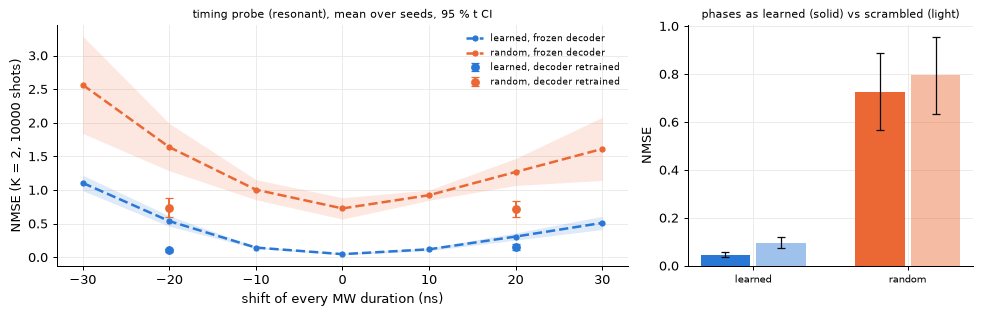
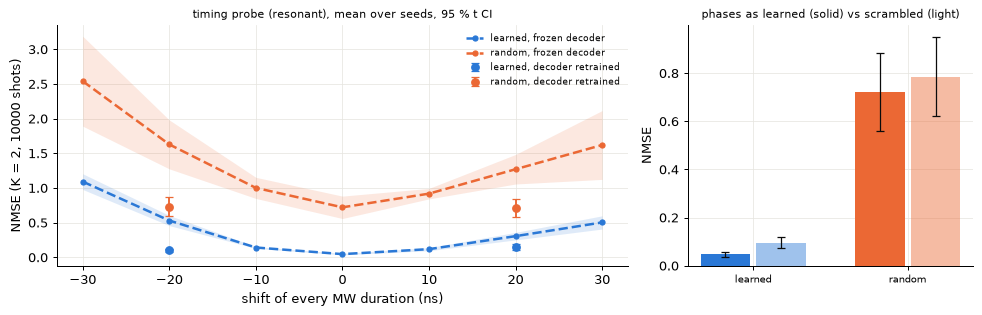
Milestone 4 report, Task 4: rerun at 32 quadrature nodes (64-node check), 8-node note, equal-area probe, detuned residual at 2x offset; corrected interpretation
Claude-Session: https://claude.ai/code/session_011moV3EPNNknRWZQ686AChh

diff --git a/docs/results/m4-autoencoder.md b/docs/results/m4-autoencoder.md
@@ -4,42 +4,51 @@
 
 ## Result
 
-- Headline (K = 2 readouts, 10000 shots, mean over 5 seeds, 95 % Student-t CI): the learned encoder reconstructs with NMSE 0.0466 [0.0364, 0.0567]; the fixed random encoder (milestone-3 reservoir parametrisation, same decoder recipe) 0.726 [0.567, 0.886]. Paired difference random - learned 0.68 [0.514, 0.845].
+- Headline (K = 2 readouts, 10000 shots, mean over 5 seeds, 95 % Student-t CI): the learned encoder reconstructs with NMSE 0.0474 [0.0372, 0.0576]; the fixed random encoder (milestone-3 reservoir parametrisation, same decoder recipe) 0.722 [0.561, 0.884]. Paired difference random - learned 0.675 [0.508, 0.842].
 - References at K = 2 (noiseless numbers): PCA 0.305 [0.3, 0.309], ideal K-number autoencoder 0.00443 [0.00374, 0.00512].
-- **Quantum test**: with every MW frequency shifted by 400 MHz (no line within 254 MHz of any MW frequency), learned NMSE 0.998 [0.996, 0.999], random 1 [0.999, 1]. Gaps (detuned - resonant): learned 0.951 [0.94, 0.962] (significant), random 0.274 [0.114, 0.433] (significant).
+- **Quantum test**: with every MW frequency shifted by 400 MHz (no line within 254 MHz of any MW frequency), learned NMSE 0.998 [0.996, 0.999], random 1 [0.999, 1]. Gaps (detuned - resonant): learned 0.95 [0.939, 0.962] (significant), random 0.278 [0.116, 0.439] (significant).
+- Detuned residual: the frozen detuned learned encoders with every MW frequency 2x as far off (800 MHz), fresh decoder: NMSE 1000 shots 1 [0.998, 1] -> 1 [0.999, 1]; 10000 shots 0.998 [0.996, 0.999] -> 1 [0.999, 1]; 100000 shots 0.992 [0.986, 0.998] -> 1 [0.999, 1].
+- Training numerics note: the same frozen encoders banked and decoded at the phase-1 node count (8) give learned 0.0458 [0.0358, 0.0559], random 0.726 [0.566, 0.886] (resonant; detuned 0.998 [0.996, 1] / 1 [0.999, 1]).
 - Timing: learned strategy uses microsecond-scale (Rabi-scale) timing: **yes** (details below).
 
 ## Interpretation
 
-- **The diamond is a usable nonlinear bottleneck once the encoding is learned.** With two gated readouts at 10^4
-  shots the learned system reconstructs to NMSE 0.047, 6.5x better than linear PCA with two *noiseless* numbers
-  (0.305), and it closes most of the gap to a noiseless nonlinear two-number autoencoder (0.0044). The decoder sees
-  only two photon counts, so the encoder must place the patch manifold onto two spin-population readouts in a way
-  that survives Poisson noise. One readout (K = 1) already beats two PCA components and approaches the ideal
-  one-number code (0.33 vs 0.20). The same parametrisation fixed at random (the milestone-3 reservoir) reaches only
-  0.73 [0.57, 0.89]: its pulses move the readouts by ~1 % where the learned ones use the ~7 % spin contrast.
-- **The learned strategy is Rabi-scale timing, not brightness.** Detuned, every arm falls to the mean patch (NMSE
-  0.998): there is no MW-independent channel. On resonance the code lives in the exact pulse areas and phases:
-  shifting every duration by 20 ns (a fraction of the ~120-250 ns Rabi period) raises the NMSE 9-fold with the
-  decoder frozen and still 2.8-fold with a decoder retrained on the shifted pulses, and scrambling the segment phases
-  doubles it. Phases matter because several segments drive the same transitions within T2*: the populations read
-  out depend on the coherent sum of rotations, not on each pulse alone. The learned pulse areas spread from 0 to
-  about pi with a peak near 0 (histogram): the input switches segments between weak and up-to-pi rotations and sets
-  their phases. The random encoder is only mildly timing-sensitive (+104 % frozen, nothing once
-  retrained).
-- **Caveat: quadrature.** Trained and evaluated with 8 T2* quadrature nodes. The frozen seed-0 system at 32 nodes
-  changes its counts by up to 1.3 % (15 % of the input-dependent signal) and its NMSE from 0.035 to 0.042 with the
-  8-node decoder: the code is robust to the finer broadening model, but part of its precision relies on details of
-  the node set. A run at more nodes (or a decoder retrained at 32 nodes) is the next check before hardware.
-- The QuTiP reference reproduces the learned sequences' gated counts to 1e-5 (1.2e-4 of the signal): the
-  sim-to-reference gap is negligible against shot noise.
+- **The learned encoder plus the NV readouts form a usable two-number channel.** With two gated readouts at 10^4
+  shots the learned system reconstructs to NMSE 0.047, 6.4x better than linear PCA with two *noiseless* numbers
+  (0.305), and well short of a noiseless nonlinear two-number autoencoder (0.0044). The nonlinearity that beats PCA
+  is in the encoder MLP (and the decoder MLP); the diamond acts as a noisy channel that carries K numbers, the
+  ms = 0 populations read by the gates. One readout (K = 1, 0.332) beats one PCA component (0.653) but not two
+  (0.305), and sits above the ideal one-number code (0.197). The same parametrisation fixed at random (the
+  milestone-3 reservoir) reaches only 0.72 [0.56, 0.88]: its pulses move the readouts by ~1 % where the learned
+  ones use the ~7 % spin contrast.
+- **Converged numerics.** Every number above is at 32 T2* quadrature nodes (banks, decoders, evaluation, probes,
+  QuTiP check); training used 8. At 64 nodes the seed-0 counts move by 0.5 % (6 % of the input-dependent signal)
+  and the NMSE by < 0.001 (0.0362 -> 0.0361), so 32 nodes is converged for this task. Banked and decoded at 8
+  nodes instead, the NMSE is 0.046 [0.036, 0.056], within the seed spread of the 32-node 0.047: the earlier
+  "0.035 -> 0.042" came from feeding 32-node counts to a decoder trained on 8-node counts (a decoder mismatch),
+  not from an unconverged result.
+- **The learned strategy relies on Rabi rotation angles and coherent phases.** On resonance the code lives in the
+  exact pulse areas and phases: shifting every duration by 20 ns (a fraction of the ~120-250 ns Rabi period) raises
+  the NMSE 9-fold with the decoder frozen and still 2.7-fold with a decoder retrained on the shifted pulses, and
+  scrambling the segment phases doubles it. Changing every pulse's area by the same amount through its amplitude
+  instead (durations kept) costs as much as the duration shift (+10.0 vs +8.1, frozen): what matters is the
+  rotation angle, i.e. pulse area on the Rabi scale, not timing as such. Phases matter because several segments
+  drive the same transitions within T2*: the populations read out depend on the coherent sum of rotations. The
+  random encoder is only mildly sensitive (+105 % frozen, nothing once retrained).
+- **Quantum test.** Detuned by 400 MHz every arm falls to the mean patch (learned 0.998, random 1.000). The learned
+  detuned arm keeps a small but significant residual (skill 0.0022 [0.0008, 0.0037] at 10^4 shots, NMSE 0.992 at
+  10^5): off-resonant spin excitation, of order (Omega / Delta)^2 ~ 1e-3 at the 254 MHz margin. It is still spin
+  physics, not a MW-independent channel: with the frozen detuned encoders at twice the offset (800 MHz) the
+  residual vanishes (NMSE 1.000 [0.999, 1] at 10^5 shots).
+- The QuTiP reference reproduces the learned sequences' gated counts to 1e-5 (1.2e-4 of the signal) at the
+  evaluation's 32 nodes; the noisy NMSE is identical on reference and surrogate counts.
 
 ## Task, bottleneck and training
 
 - Data: 4x4 patches tanh(3.0 (x cos theta + y sin theta - o)), theta uniform, |o| <= 0.6; 8192 train / 512 val / 2048 test patches per seed. NMSE = MSE / mean per-pixel variance (1 = mean patch).
 - Sequence: init laser 1500 ns, dark 1000 ns, then K x [4 MW segments in 100 ns slots, a 1000 ns readout laser of which the first 300 ns are counted (one number per readout)]. Each segment: amplitude in [0, 1], phase, frequency within +-4 MHz of a device line (segment j of block k on line (4k + j) mod 8 of the known bias field [0.0012, 0.0007, 0.0025] T), duration 0-100 ns on the 10 ns grid (straight-through rounding; the surrogate's run-length path gives exact duration gradients).
-- Device per seed: nuisance draw (T2*, Rabi full scale, beta, collection, background, strain) from the milestone-3 prior; T2* quadrature 8 quantile nodes.
-- Phase 1: Adam, 1000 steps, batch 128, Gaussian shot noise (Poisson variance), shots log-uniform [1000.0, 100000.0]. Phase 2: fresh decoder, 3000 steps on a bank with Poisson noise. Wall time: phase 1 82 min, phase 2 15.3 min, timing probes 5.7 min.
+- Device per seed: nuisance draw (T2*, Rabi full scale, beta, collection, background, strain) from the milestone-3 prior. T2* quadrature (quantile rule): 8 nodes for phase-1 training, 32 nodes for every bank, decoder, evaluation, timing probe and the QuTiP check (every number in this report unless marked otherwise).
+- Phase 1: Adam, 1000 steps, batch 128, Gaussian shot noise (Poisson variance), shots log-uniform [1000.0, 100000.0]. Phase 2: fresh decoder, 3000 steps on a bank with Poisson noise. Wall time: phase 1 82 min, phase 2 28.0 min, timing probes 9.3 min.
 
 ## Error vs bottleneck and noise
 
@@ -47,43 +56,45 @@ NMSE at 10000 shots, resonant, mean [95 % t CI] over seeds:
 
 | K | learned | random | PCA (noiseless) | ideal K-number AE (noiseless) |
 | --- | --- | --- | --- | --- |
-| 1 | 0.331 [0.306, 0.356] | 0.801 [0.65, 0.952] | 0.653 [0.644, 0.663] | 0.197 [0.182, 0.211] |
-| 2 | 0.0466 [0.0364, 0.0567] | 0.726 [0.567, 0.886] | 0.305 [0.3, 0.309] | 0.00443 [0.00374, 0.00512] |
-| 4 | 0.0103 [0.00716, 0.0134] | 0.626 [0.504, 0.749] | 0.0476 [0.0471, 0.0481] | 0.000288 [0.000251, 0.000324] |
+| 1 | 0.332 [0.307, 0.357] | 0.804 [0.653, 0.954] | 0.653 [0.644, 0.663] | 0.197 [0.182, 0.211] |
+| 2 | 0.0474 [0.0372, 0.0576] | 0.722 [0.561, 0.884] | 0.305 [0.3, 0.309] | 0.00443 [0.00374, 0.00512] |
+| 4 | 0.0103 [0.00718, 0.0135] | 0.619 [0.5, 0.737] | 0.0476 [0.0471, 0.0481] | 0.000288 [0.000251, 0.000324] |
 
 NMSE vs shots at K = 2:
 
 | shots | learned, resonant | learned, detuned | random, resonant | random, detuned |
 | --- | --- | --- | --- | --- |
-| 1000 | 0.162 [0.125, 0.199] | 1 [0.998, 1] | 0.86 [0.76, 0.961] | 1 [1, 1] |
-| 10000 | 0.0466 [0.0364, 0.0567] | 0.998 [0.996, 0.999] | 0.726 [0.567, 0.886] | 1 [0.999, 1] |
-| 100000 | 0.0316 [0.0259, 0.0372] | 0.992 [0.985, 0.998] | 0.699 [0.531, 0.867] | 1 [0.999, 1] |
+| 1000 | 0.166 [0.127, 0.204] | 1 [0.998, 1] | 0.861 [0.76, 0.963] | 1 [1, 1] |
+| 10000 | 0.0474 [0.0372, 0.0576] | 0.998 [0.996, 0.999] | 0.722 [0.561, 0.884] | 1 [0.999, 1] |
+| 100000 | 0.032 [0.0265, 0.0374] | 0.992 [0.986, 0.998] | 0.693 [0.523, 0.863] | 1 [0.999, 1] |
 
 ## Quantum test
 
 | metric | resonant | detuned | gap (better on resonance > 0) | per seed (resonant / detuned) |
 | --- | --- | --- | --- | --- |
-| learned_nmse | 0.04655 [0.03642, 0.05668] | 0.9977 [0.9962, 0.9992] | 0.9511 [0.9398, 0.9624] | 0.03447, 0.05309, 0.04632, 0.04395, 0.05495; 0.9994, 0.9968, 0.9985, 0.9967, 0.997 |
-| learned_skill | 0.9534 [0.9433, 0.9636] | 0.002314 [0.0008272, 0.0038] | 0.9511 [0.9398, 0.9624] | 0.9655, 0.9469, 0.9537, 0.9561, 0.945; 0.0006301, 0.003178, 0.001468, 0.003304, 0.002987 |
-| random_nmse | 0.7264 [0.567, 0.8858] | 1 [0.9992, 1.001] | 0.2736 [0.1144, 0.4328] | 0.9013, 0.8158, 0.6745, 0.6525, 0.5879; 1, 1, 1, 0.9989, 1 |
-| random_skill | 0.2736 [0.1142, 0.433] | 9.882e-06 [-0.0007681, 0.0007878] | 0.2736 [0.1144, 0.4328] | 0.09873, 0.1842, 0.3255, 0.3475, 0.4121; -0.0003242, -1.407e-05, -0.0003191, 0.0011, -0.0003928 |
+| learned_nmse | 0.04744 [0.03724, 0.05764] | 0.9978 [0.9963, 0.9992] | 0.9503 [0.9391, 0.9616] | 0.03617, 0.05469, 0.04621, 0.04393, 0.05619; 0.9994, 0.997, 0.9986, 0.9967, 0.9971 |
+| learned_skill | 0.9526 [0.9424, 0.9628] | 0.00223 [0.0008043, 0.003656] | 0.9503 [0.9391, 0.9616] | 0.9638, 0.9453, 0.9538, 0.9561, 0.9438; 0.0006223, 0.002963, 0.001419, 0.003265, 0.00288 |
+| learned_nmse_train_quad | 0.04584 [0.0358, 0.05588] | 0.9979 [0.996, 0.9998] | 0.952 [0.9403, 0.9638] | 0.03298, 0.05069, 0.04564, 0.04555, 0.05434; 0.9998, 0.996, 0.9987, 0.9982, 0.9967 |
+| random_nmse | 0.7222 [0.5607, 0.8837] | 1 [0.9992, 1.001] | 0.2778 [0.1164, 0.4391] | 0.9007, 0.8137, 0.6629, 0.6467, 0.5872; 1, 1, 1, 0.9989, 1 |
+| random_skill | 0.2778 [0.1163, 0.4393] | 9.954e-06 [-0.0007683, 0.0007882] | 0.2778 [0.1164, 0.4391] | 0.09933, 0.1863, 0.3371, 0.3533, 0.4128; -0.0003242, -1.192e-05, -0.0003206, 0.0011, -0.0003932 |
+| random_nmse_train_quad | 0.7261 [0.5662, 0.886] | 0.9998 [0.9987, 1.001] | 0.2737 [0.114, 0.4334] | 0.9042, 0.8113, 0.6759, 0.6525, 0.5867; 1, 1, 1, 0.9982, 1 |
 
 ## Learned strategies and timing
 
-Pulse areas are the resonant rotation angle 2 f_R a d (f_R the seed's full-scale Rabi frequency on a [100] MW field; units of pi). Probes (resonant, K = headline, every seed): every MW duration shifted with the decoder frozen (the harness's `timing_sensitivity`) and with a decoder retrained on the shifted encoding; every segment's phase replaced by an independent random phase (frozen decoder). Relative NMSE increase, mean [95 % t CI] over seeds:
+Pulse areas are the resonant rotation angle 2 f_R a d (f_R the seed's full-scale Rabi frequency on a [100] MW field; units of pi). Probes (resonant, K = headline, every seed): every MW duration shifted with the decoder frozen (the harness's `timing_sensitivity`) and with a decoder retrained on the shifted encoding; every segment's amplitude scaled so that its area changes as under the shift, durations kept (equal-area control, frozen decoder); every segment's phase replaced by an independent random phase (frozen decoder). Relative NMSE increase, mean [95 % t CI] over seeds:
 
-| encoder | median area (pi) | fraction of segments at 0.25-4 pi | fraction off | median duration (ns) | +-20 ns, frozen | +-20 ns, retrained | phases scrambled |
-| --- | --- | --- | --- | --- | --- | --- | --- |
-| learned | 0.435 [0.427, 0.443] | 0.66 [0.62, 0.70] | 0.01 [-0.00, 0.02] | 58 [52, 64] | +8.40 [+5.46, +11.33] | +1.77 [+1.46, +2.07] | +1.05 [+0.92, +1.17] |
-| random | 0.421 [0.226, 0.615] | 0.72 [0.54, 0.89] | 0.00 [-0.00, 0.00] | 54 [43, 65] | +1.04 [+0.63, +1.45] | +0.00 [-0.06, +0.07] | +0.10 [+0.02, +0.18] |
+| encoder | median area (pi) | fraction of segments at 0.25-4 pi | fraction off | median duration (ns) | +-20 ns, frozen | +-20 ns, retrained | equal area by amplitude, frozen | phases scrambled |
+| --- | --- | --- | --- | --- | --- | --- | --- | --- |
+| learned | 0.435 [0.427, 0.443] | 0.66 [0.62, 0.70] | 0.01 [-0.00, 0.02] | 58 [52, 64] | +8.11 [+5.48, +10.73] | +1.70 [+1.41, +1.99] | +10.02 [+7.17, +12.87] | +0.99 [+0.87, +1.12] |
+| random | 0.421 [0.226, 0.615] | 0.72 [0.54, 0.89] | 0.00 [-0.00, 0.00] | 54 [43, 65] | +1.05 [+0.58, +1.53] | +0.01 [-0.06, +0.07] | +1.59 [+0.78, +2.40] | +0.09 [+0.02, +0.17] |
 
-- Learned encoder relies on its pulse timing (frozen NMSE up > 10 % at +-20 ns, CI): yes; the information needs the exact timing (retrained decoder still worse > 10 %): yes; it uses coherent phase relations between segments (scrambling costs > 10 %): yes; its pulse areas are Rabi-scale (median 0.25-4 pi): yes. `strategy_learns_timing` = relies on pulse timing and Rabi-scale areas = **yes**.
+- Learned encoder relies on its pulse timing (frozen NMSE up > 10 % at +-20 ns, CI): yes; the information needs the exact timing (retrained decoder still worse > 10 %): yes; it uses coherent phase relations between segments (scrambling costs > 10 %): yes; its pulse areas are Rabi-scale (median 0.25-4 pi): yes. The same area change made with the amplitude (durations kept) costs at least half as much as the duration shift: yes (if yes, the probe measures reliance on the pulse areas, i.e. the Rabi rotation angles, rather than on timing as such). `strategy_learns_timing` = relies on pulse timing and Rabi-scale areas = **yes**.
 - The same probes on the random encoder show what an unlearned encoding of the same family does.
 
 ## Checks
 
-- QuTiP reference (seed 0, resonant, K = 2, 16 learned test sequences run as full PulseSequences, 8 quadrature nodes): gated counts within 9.7e-06 (relative) of the surrogate, 0.00012 of the input-dependent signal; frozen decoder NMSE at 10000 shots 0.0315 on reference counts vs 0.0315 on surrogate counts (64 noise draws per patch, same draws); noiseless reconstructions differ by 3.8e-05 of the pixel sd (12 s).
-- Quadrature: the frozen seed-0 system at 32 nodes: counts within 0.013 (relative), 0.15 of the signal; NMSE 0.0345 -> 0.0415 with the decoder trained at 8 nodes.
+- QuTiP reference (seed 0, resonant, K = 2, 16 learned test sequences run as full PulseSequences, 32 quadrature nodes): gated counts within 9.3e-06 (relative) of the surrogate, 0.00012 of the input-dependent signal; frozen decoder NMSE at 10000 shots 0.0328 on reference counts vs 0.0328 on surrogate counts (64 noise draws per patch, same draws); noiseless reconstructions differ by 4.1e-05 of the pixel sd (35 s).
+- Quadrature: the frozen seed-0 system at 64 nodes: counts within 0.0054 (relative), 0.06 of the signal; NMSE 0.0362 -> 0.0361 with the decoder trained at 32 nodes.
 
 ## Assumptions and limits
 
@@ -104,12 +115,12 @@ Pulse areas are the resonant rotation angle 2 f_R a d (f_R the seed's full-scale
 
 ## Provenance
 
-- run id: `20261126-080522-m4-autoencoder-129b`
-- git: `899e5bf619ac383e4dd2d5b39c19ae127033628e`
+- run id: `20261126-130613-m4-autoencoder-62a5`
+- git: `4b1b1431c4075de907c32e94a471eb8d77409ad1`
 - seed: 20261128
 - device: cuda NVIDIA GeForce RTX 5070 Ti
 - python 3.12.14, glowbox 0.1.0, torch 2.11.0+cu128, qutip 5.3.1, numpy 2.5.5, scipy 1.18.1, pyarrow 26.0.1
-- started 2026-11-26T08:05:22+00:00, finished 2026-11-26T09:48:30+00:00
+- started 2026-11-26T13:06:13+00:00, finished 2026-11-26T15:04:53+00:00
 
 ## Config
 
@@ -135,6 +146,7 @@ device:
   - 0.0012
   - 0.0007
   - 0.0025
+  eval_n_detuning: 32
   n_detuning: 8
   prior:
     background_cps:
@@ -163,6 +175,7 @@ encoder:
   init_duration_ns: 50.0
   out_scale: 1.0
   random_gain: 1.5
+far_detuned_factor: 2.0
 grid:
   blocks:
   - 1
@@ -192,7 +205,7 @@ layout:
   span_hz: 4000000.0
 name: m4-autoencoder
 quadrature_check:
-  n_detuning: 32
+  n_detuning: 64
 reference:
   n_patterns: 16
   workers: 16
@@ -233,31 +246,41 @@ train:
 
 | metric | value |
 | --- | --- |
-| learned_nmse_resonant | 0.0465542 |
-| learned_nmse_detuned | 0.997686 |
-| learned_nmse_gap | 0.951132 |
-| learned_nmse_gap_lo | 0.939846 |
-| learned_nmse_gap_hi | 0.962418 |
-| learned_skill_resonant | 0.953446 |
-| learned_skill_detuned | 0.00231352 |
-| learned_skill_gap | 0.951132 |
-| learned_skill_gap_lo | 0.939846 |
-| learned_skill_gap_hi | 0.962418 |
-| random_nmse_resonant | 0.726391 |
+| learned_nmse_resonant | 0.0474386 |
+| learned_nmse_detuned | 0.99777 |
+| learned_nmse_gap | 0.950331 |
+| learned_nmse_gap_lo | 0.939084 |
+| learned_nmse_gap_hi | 0.961579 |
+| learned_skill_resonant | 0.952561 |
+| learned_skill_detuned | 0.00222994 |
+| learned_skill_gap | 0.950331 |
+| learned_skill_gap_lo | 0.939084 |
+| learned_skill_gap_hi | 0.961579 |
+| learned_nmse_train_quad_resonant | 0.0458405 |
+| learned_nmse_train_quad_detuned | 0.997861 |
+| learned_nmse_train_quad_gap | 0.95202 |
+| learned_nmse_train_quad_gap_lo | 0.940263 |
+| learned_nmse_train_quad_gap_hi | 0.963778 |
+| random_nmse_resonant | 0.722236 |
 | random_nmse_detuned | 0.99999 |
-| random_nmse_gap | 0.273599 |
-| random_nmse_gap_lo | 0.114361 |
-| random_nmse_gap_hi | 0.432838 |
-| random_skill_resonant | 0.273609 |
-| random_skill_detuned | 9.88245e-06 |
-| random_skill_gap | 0.273599 |
-| random_skill_gap_lo | 0.114361 |
-| random_skill_gap_hi | 0.432838 |
-| ref_max_rel_diff | 9.73696e-06 |
-| quad_max_rel_diff | 0.0130999 |
+| random_nmse_gap | 0.277754 |
+| random_nmse_gap_lo | 0.116422 |
+| random_nmse_gap_hi | 0.439086 |
+| random_skill_resonant | 0.277764 |
+| random_skill_detuned | 9.95398e-06 |
+| random_skill_gap | 0.277754 |
+| random_skill_gap_lo | 0.116422 |
+| random_skill_gap_hi | 0.439086 |
+| random_nmse_train_quad_resonant | 0.726096 |
+| random_nmse_train_quad_detuned | 0.999804 |
+| random_nmse_train_quad_gap | 0.273708 |
+| random_nmse_train_quad_gap_lo | 0.114047 |
+| random_nmse_train_quad_gap_hi | 0.433369 |
+| ref_max_rel_diff | 9.28929e-06 |
+| quad_max_rel_diff | 0.00542957 |
 | strategy_learns_timing | 1 |
 | learned_relies_on_pulse_timing | 1 |
 | learned_uses_phase_coherence | 1 |
 | no_line_margin_mhz | 253.588 |
-| phase1_seconds | 4893.34 |
-| wall_seconds | 6188.07 |
+| phase1_seconds | 4922.12 |
+| wall_seconds | 7117.08 |
